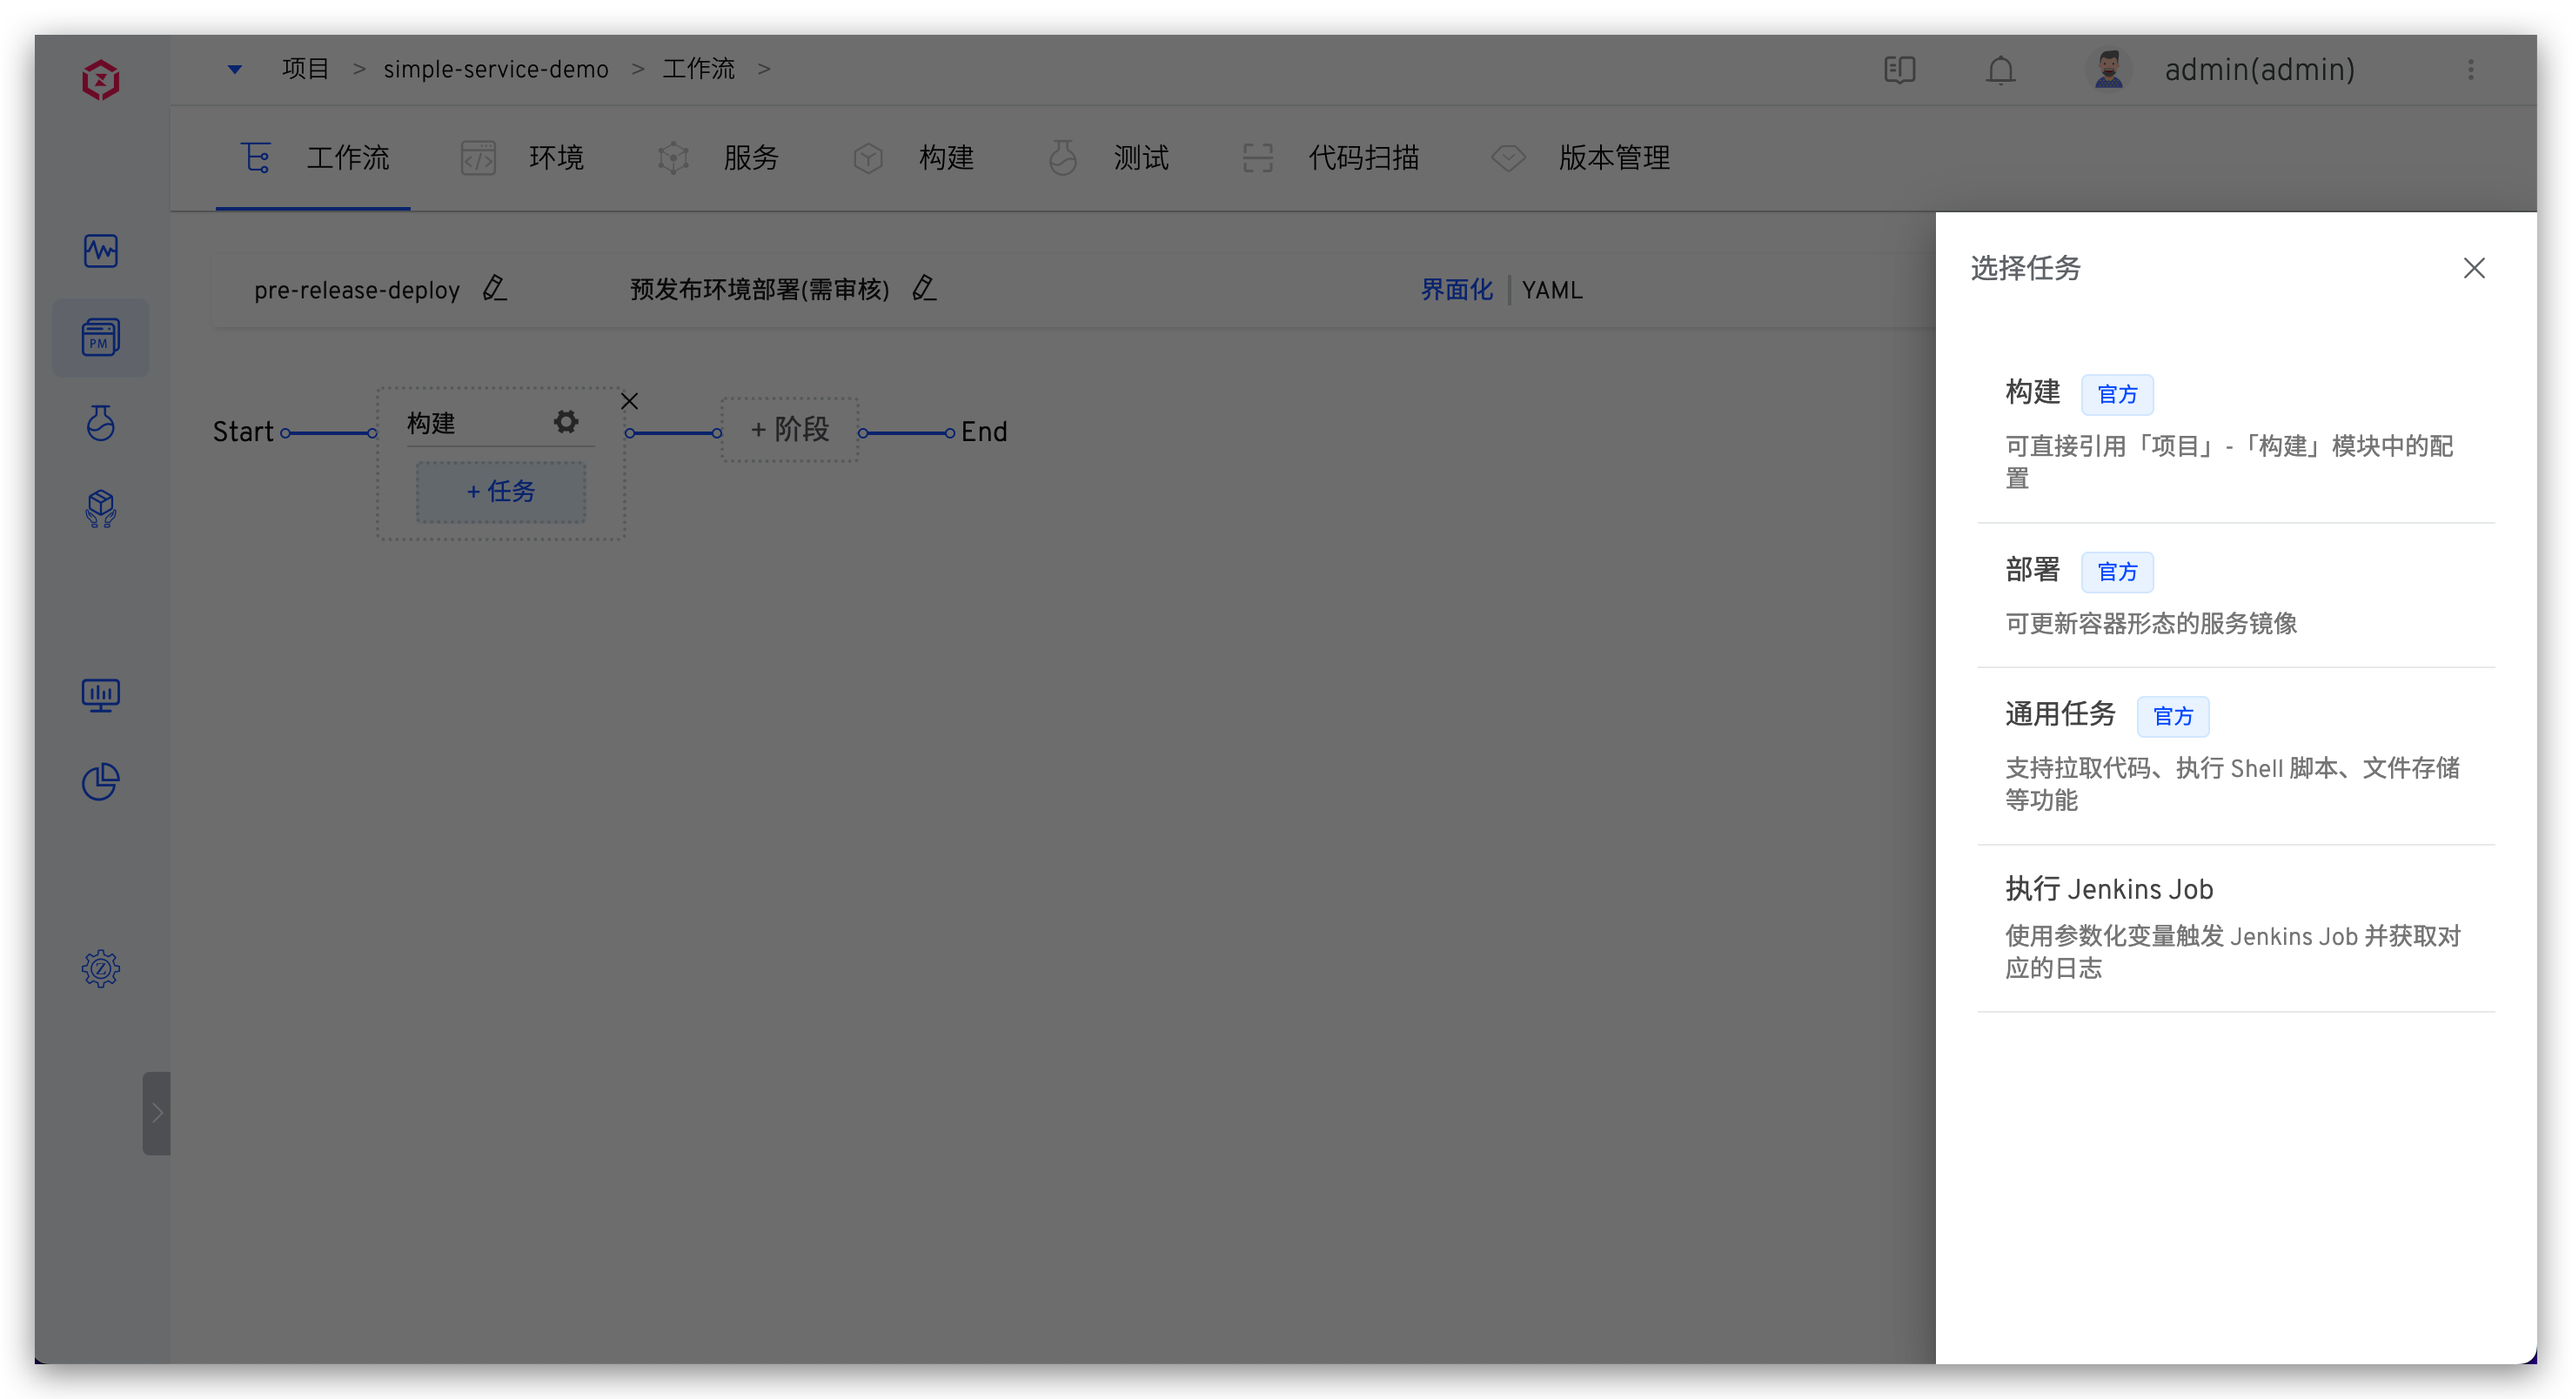
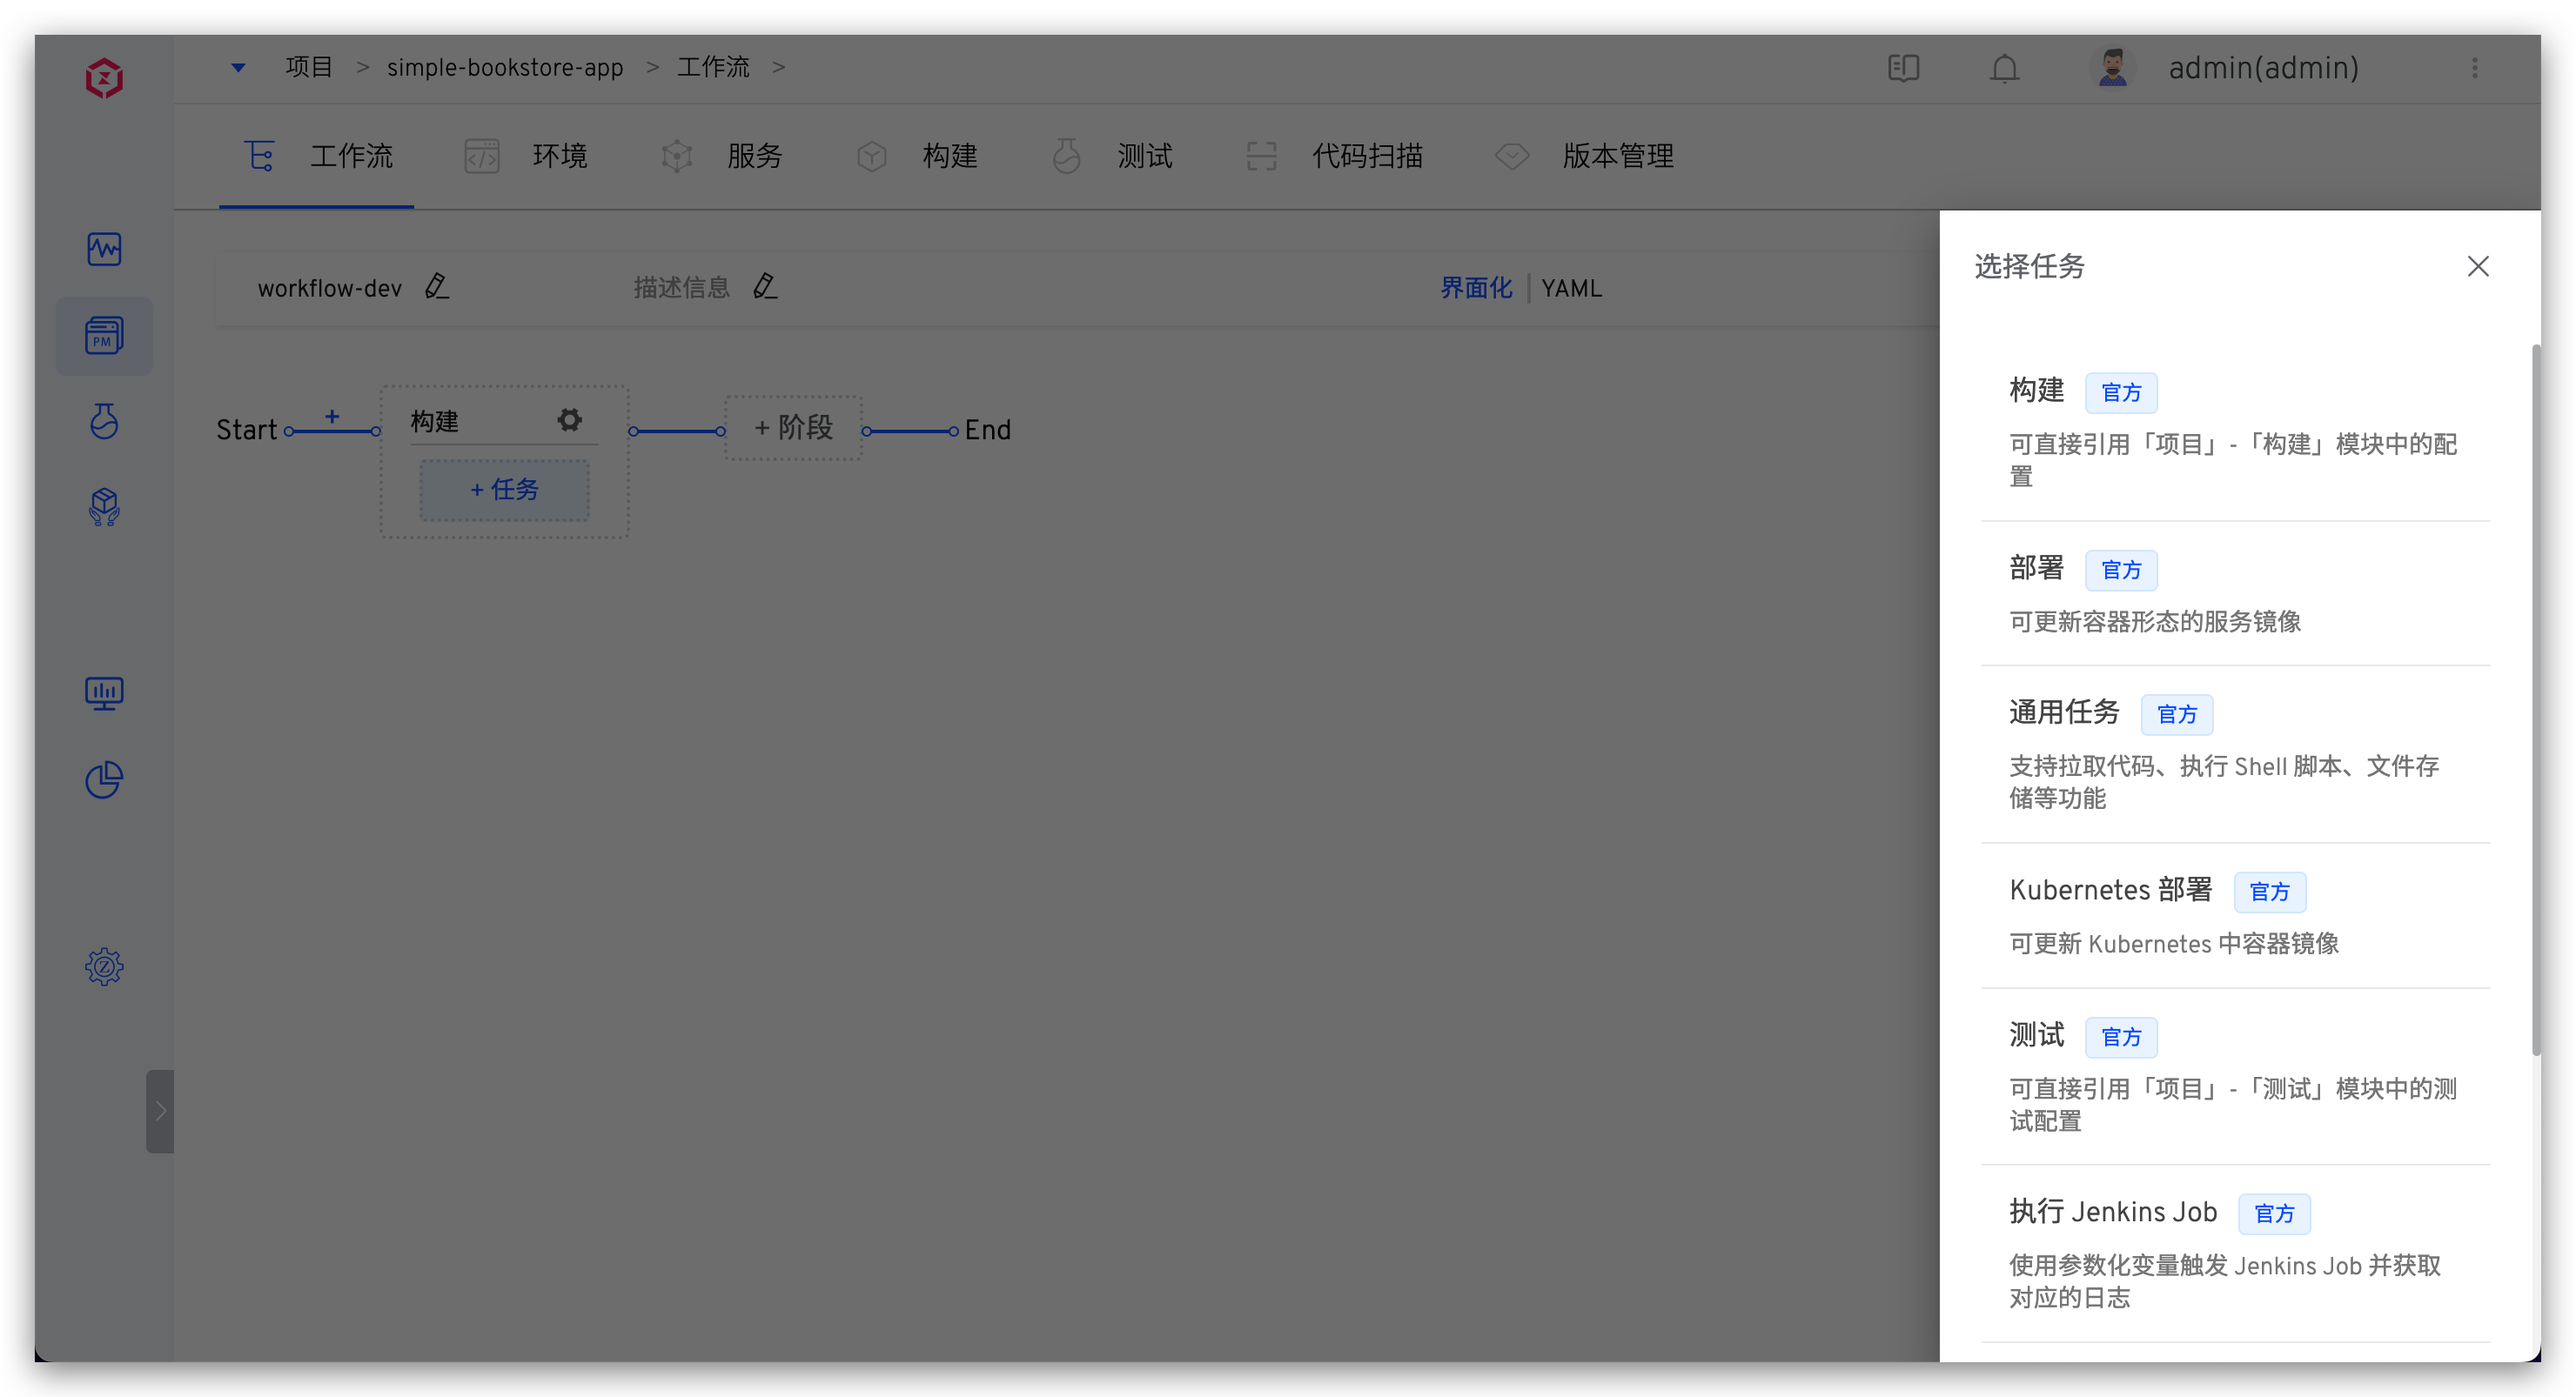
support K8s deploy task

diff --git a/dev/04.项目/02.工作流/02.common_workflow.md b/dev/04.项目/02.工作流/02.common_workflow.md
@@ -40,7 +40,7 @@ permalink: /dev/project/common-workflow/
 - `前置步骤`：可按需开启人工审核。开启后，需要审核通过，该阶段下的任务才会被执行
 
 ### 任务
-点击阶段下方的 `+任务` 为阶段增加任务配置，系统目前支持`构建`、`部署`、`通用任务`、`自定义任务` 四种任务类型。
+点击阶段下方的 `+任务` 为阶段增加任务配置，系统目前支持`构建`、`部署`、`通用任务`、`Kubernetes 部署`、`测试`、`自定义任务` 等任务类型。
 
 ![common_workflow_config](../_images/common_workflow_config_2.png)
 
@@ -83,6 +83,23 @@ permalink: /dev/project/common-workflow/
 
 ![common_workflow_config](../_images/common_workflow_config_6.png)
 ![common_workflow_config](../_images/common_workflow_config_7.png)
+
+#### Kubernetes 部署任务
+部署指定集群指定命名空间中的服务。
+
+![common_workflow_config](../_images/common_workflow_config_8.png)
+
+参数说明：
+- `任务名称`：在同一个自定义工作流中，任务名称需唯一
+- `镜像仓库`：执行 Kubernetes 部署任务时，从哪个镜像仓库获取镜像来部署目标服务
+- `集群`：待部署服务所在的集群
+- `命名空间`：待部署服务所在的命名空间
+- `容器`：指定命名空间中的容器应用（目前支持 Deployment 资源及 Statefulset 资源）
+- `容器状态检测`：若开启，部署任务会轮询服务运行状态，在部署超时之前该服务正常运行，任务状态才为成功
+- `超时时间`：服务部署超时时间
+
+#### 测试任务
+coming soon...
 
 #### 自定义任务
 自己定义任务的实现，在工作流中配置自定义任务，详细使用方法请参考 [自定义任务](/dev/settings/custom-task/)。
@@ -322,6 +339,15 @@ multi_run: false
 - `运行时输入`：执行工作流时手动指定服务的镜像
 
 ![common_workflow_config](../_images/common_workflow_config_deploy_task.png)
+
+### Kubernetes 部署任务
+> 内置 Kubernetes 部署任务中的容器信息。
+
+容器信息支持以下两种配置方式：
+- `运行时输入`：执行工作流时再指定要部署的容器
+- `固定值`：设置待部署容器为固定值，执行工作流时不可再更改
+
+![common_workflow_config](../_images/common_workflow_config_k8s_deploy_task.png)
 
 ### 通用任务
 > 通用任务中的变量。
